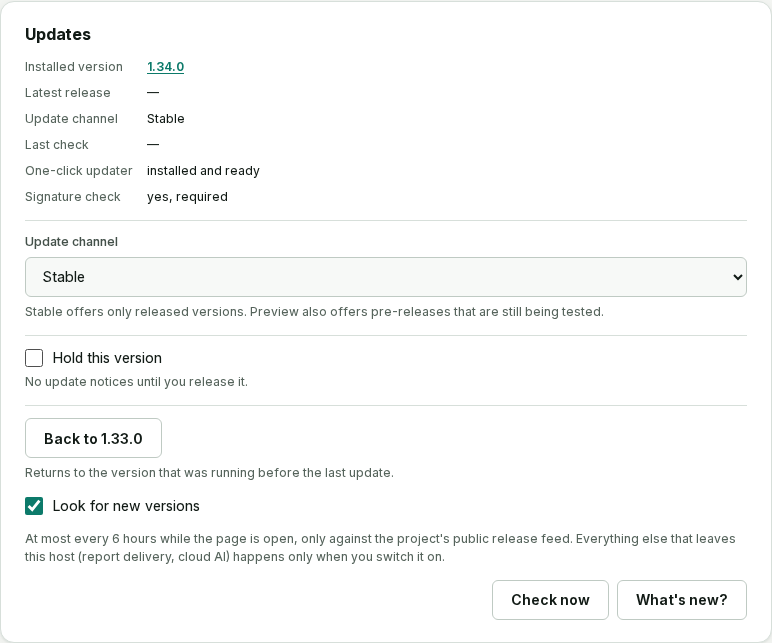
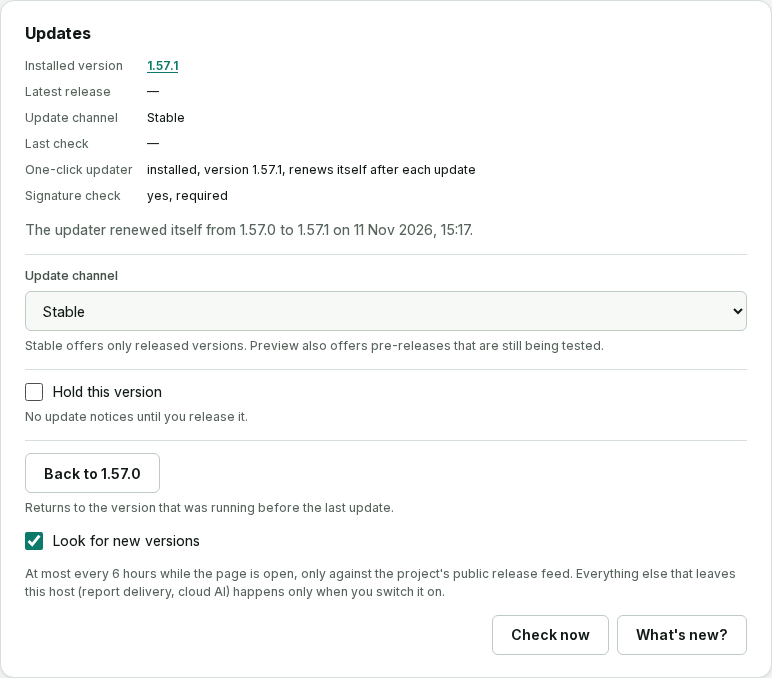
B7: Updates card screenshot with the self-renewing updater

diff --git a/docs/manual/updating.md b/docs/manual/updating.md
@@ -26,7 +26,7 @@ need the updater sidecar (notice, one-click update, channels, hold, going back) 
   Checking health, then Done, Rolled back or Failed.
 
 <table><tr>
-<td width="50%"><img src="../screenshots/updates-light.png" width="100%" alt="Updates card: version, channel, hold, back to the previous version, signature check"><br><sub>The Updates card in the settings</sub></td>
+<td width="50%"><img src="../screenshots/updates-light.png" width="100%" alt="Updates card: version, channel, hold, back to the previous version, signature check, updater that renews itself"><br><sub>The Updates card in the settings; the updater renews itself</sub></td>
 <td width="50%"><img src="../screenshots/whatsnew-dark.png" width="100%" alt="What's new: the changes of each version from the changelog in the image"><br><sub>What's new? from the version number in the header</sub></td>
 </tr><tr>
 <td width="50%"><img src="../screenshots/updates-rollback-light.png" width="100%" alt="Confirmation before going back to the previous version"><br><sub>Going back asks first, in the app's own dialog</sub></td>
